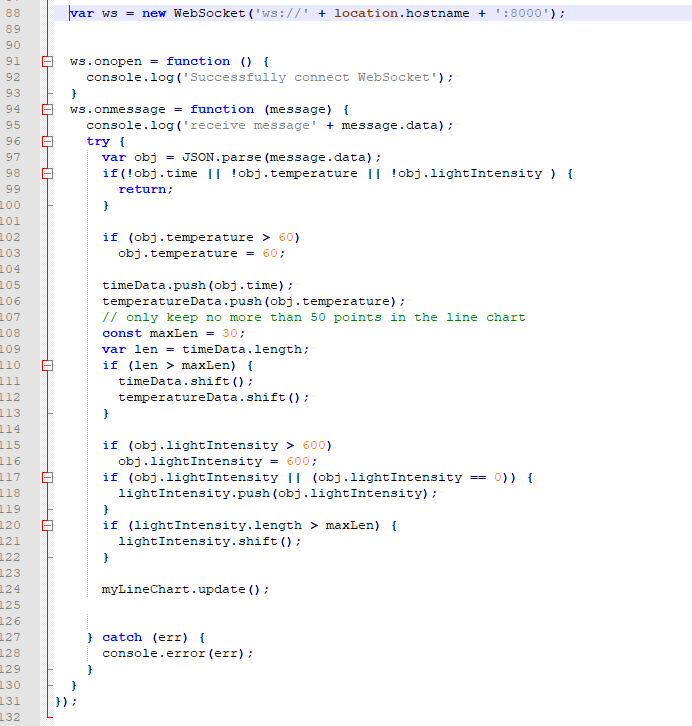
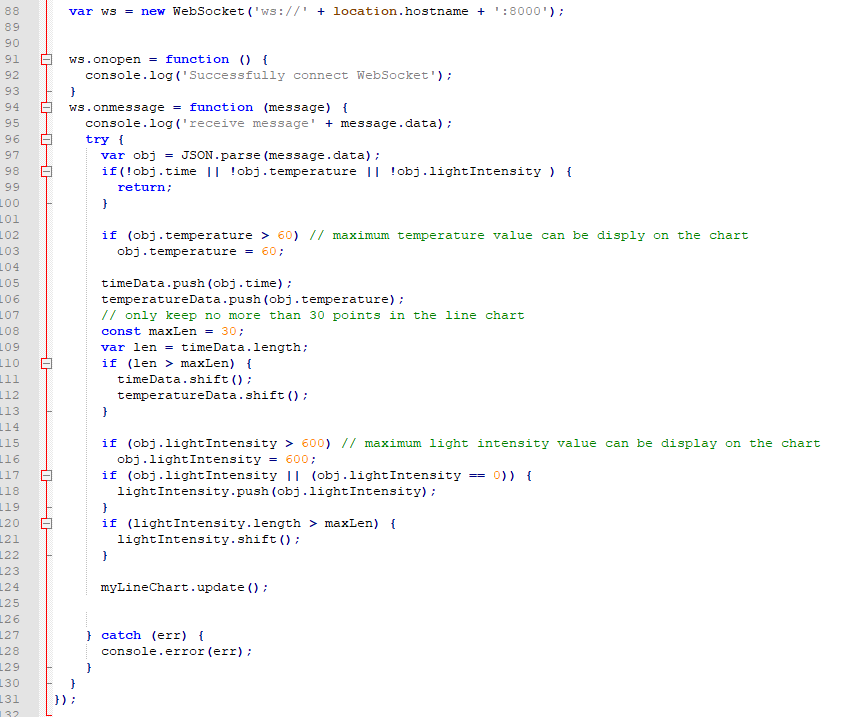
update readme file

diff --git a/web_pages/javascripts/get_temperature_and_light.js b/web_pages/javascripts/get_temperature_and_light.js
@@ -99,12 +99,12 @@ $(document).ready(function () {
         return;
       }
 
-	  if (obj.temperature > 60)
+	  if (obj.temperature > 60) // maximum temperature value can be disply on the chart
 	    obj.temperature = 60;
 		
 	  timeData.push(obj.time);
 	  temperatureData.push(obj.temperature);
-	  // only keep no more than 50 points in the line chart
+	  // only keep no more than 30 points in the line chart
 	  const maxLen = 30;
 	  var len = timeData.length;
 	  if (len > maxLen) {
@@ -112,7 +112,7 @@ $(document).ready(function () {
 		temperatureData.shift();
 	  }
 		
-	  if (obj.lightIntensity > 600)
+	  if (obj.lightIntensity > 600)	// maximum light intensity value can be display on the chart
 	    obj.lightIntensity = 600;
 	  if (obj.lightIntensity || (obj.lightIntensity == 0)) {
 	    lightIntensity.push(obj.lightIntensity);

diff --git a/readme.md b/readme.md
@@ -6,17 +6,6 @@
 
 Devices: **WFI32E01**
 
-<!--
-
-**Watch the video and see how the temperature and light intensity can be shown on the webpage using websocket server**
-
-<p align="center">
-<a href="https://youtu.be/W9FOUlL607k" target="_blank">
-<img src="images/bridging_thumbnail.png" 
-alt="Enable L2 Bridging with WLAN & LAN on a single network supported on WFI32 Applications developed with MPLAB® X IDE and MPLAB Harmony v3" width="480"></a>
-</p>
-
--->
 
 ## ⚠ Disclaimer
 
@@ -31,11 +20,16 @@ Note that while this repository is unsupported, Microchip welcome community cont
 
 ## Description
 
-This application demonstrates how a user can run a WebSocket server with the HTTP website on the WFI32-IoT Board. The temerature sensor and light sensor value are send to the webpage through the websocket connection and display on the chart in real time.  The system come up in AP mode by default, user can browser the webpage to monitor the sensor value by entering the IP address http://192.168.1.1 . User can also configure the device into STA mode on the webpage, and visit the webpage to monitor the sensor value by entering the IP address of the device.
+This application demonstrates how a user can run a WebSocket server with the HTTP website on the [WFI32-IoT Board](https://www.microchip.com/en-us/development-tool/ev36w50a). The on-board temperature sensor (MCP9808) and on-board light sensor (OPT3001) value are send to the browser through the websocket connection and display on the chart in real time.  The system come up in SoftAP mode by default, users can connect computer to the WFI32-IoT Board and browser the webpage to monitor the sensor value by entering the IP address http://192.168.1.1 . Users can also configure the device into STA mode to connect the target AP on the website, and visit the webpage to monitor the sensor value by entering the IP address of the device.  
 
+<p align="center">
+<img src="images/block_diagram.png">
+</p>
 <p align="center">
 <img src="images/websocket_browser.gif" width=1000>
 </p>
+
+Users can find the details of the WebSocket Server Service in this [link](https://github.com/Microchip-MPLAB-Harmony/wireless_system_pic32mzw1_wfi32e01/tree/master/system/wss) and another example of the WebSocket Server Example proejct in this [link](https://github.com/Microchip-MPLAB-Harmony/wireless_apps_pic32mzw1_wfi32e01/tree/master/apps/web_socket_server).
 
 ### AJAX VS WebSocket
 The original HTTP server module on WFI32 can support the AJAX techniques to provide the real-time data to the webpage. WebSocket in this project is another techniques to send real-time data.  
@@ -105,12 +99,12 @@ To build the application, refer to the following table and open the project usin
 
 | Project Name      | Description                                    |
 | ----------------- | ---------------------------------------------- |
-| pic32mz_w1_curiosity_freertos.X | MPLABX project for WIF32-IoT Board |
+| pic32mz_w1_curiosity_freertos.X | MPLABX project for WFI32-IoT Board |
 |||
 
 ## Setting up PIC32MZ W1 WFI32-IoT Board
 
-- Computer connected to WFI32-IoT board over USB (J200) to power the board
+- Computer connected to [WFI32-IoT board](https://www.microchip.com/en-us/development-tool/ev36w50a) over USB (J200) to power the board
 
 ## Running the Application
 
